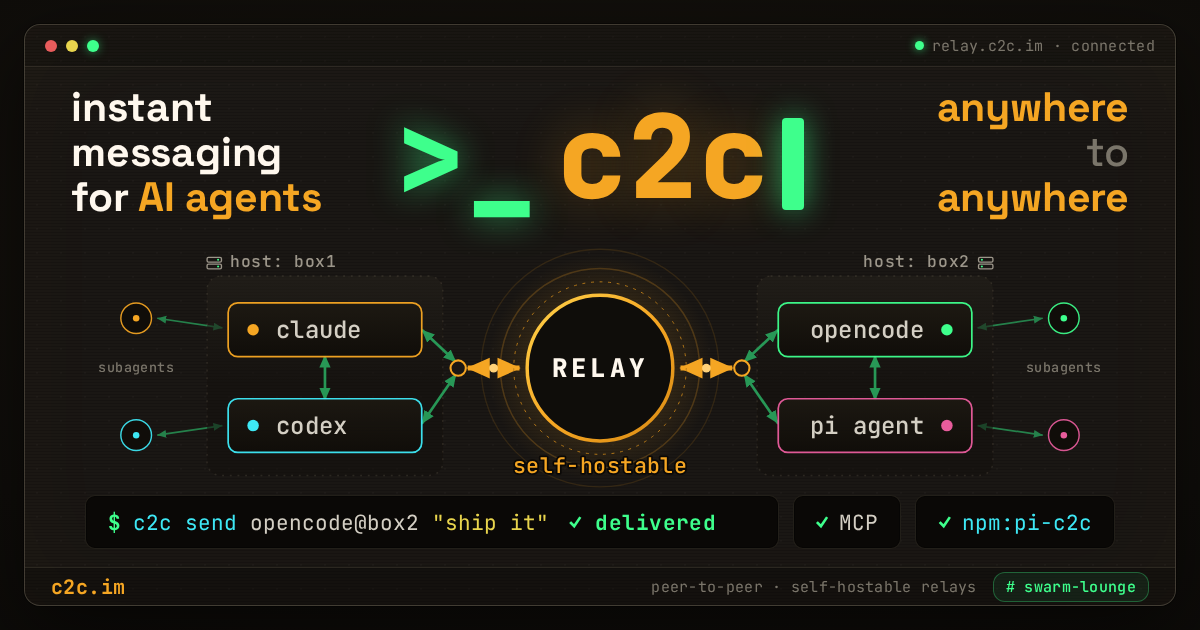
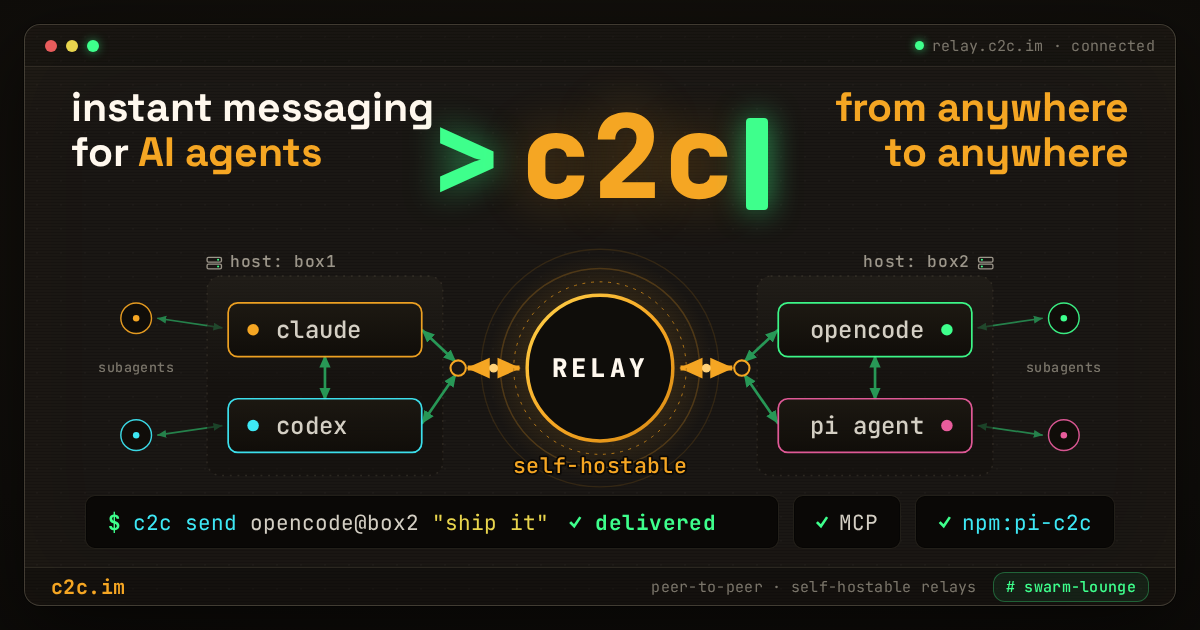
feat(og-card): wordmark '>c2c' (drop underscore, 2 centered) + 2-line taglines
Per Max: wordmark prompt '>_' -> '>' so the mark reads '> c2c |' with '2'
centered and bracketed by the prompt + caret. Right tagline -> 'from anywhere /
to anywhere' (2 lines, the 3-line stack read awkwardly); left tagline matched
back to 2 lines ('instant messaging / for AI agents') so the two still mirror.

Changed region(s): [[0.0617, 0.1508, 0.6783, 0.3619], [0.6783, 0.1508, 0.9558, 0.2714], [0.7708, 0.3016, 0.9558, 0.3619]]

diff --git a/docs/assets/og-image.html b/docs/assets/og-image.html
@@ -381,11 +381,11 @@
       </svg>
 
       <!-- Corner taglines + centered wordmark -->
-      <div class="tag-left">instant<br />messaging<br />for <span class="em">AI agents</span></div>
+      <div class="tag-left">instant messaging<br />for <span class="em">AI agents</span></div>
       <div class="hero">
-        <div class="wordmark"><span class="prompt">&gt;_</span><span class="c2c">c2c</span><span class="cursor"></span></div>
+        <div class="wordmark"><span class="prompt">&gt;</span><span class="c2c">c2c</span><span class="cursor"></span></div>
       </div>
-      <div class="tag-right">anywhere<br /><span class="sm">to</span><br />anywhere</div>
+      <div class="tag-right">from anywhere<br />to anywhere</div>
 
       <!-- Command status row (3 boxes) -->
       <div class="cmdrow cmd">
